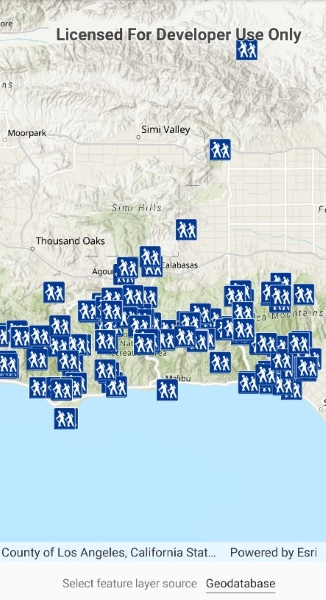
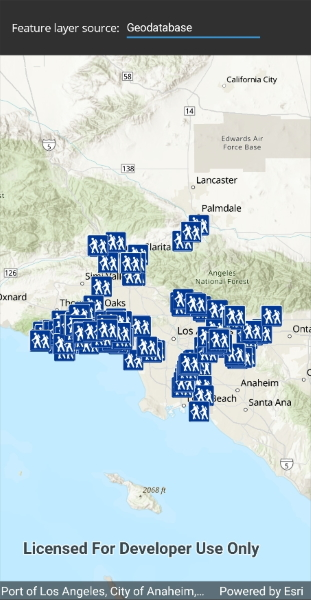
Updated LA trailheads data item (#1150)

diff --git a/src/UWP/ArcGISRuntime.UWP.Viewer/Samples/Data/FeatureLayerGeodatabase/FeatureLayerGeodatabase.xaml.cs b/src/UWP/ArcGISRuntime.UWP.Viewer/Samples/Data/FeatureLayerGeodatabase/FeatureLayerGeodatabase.xaml.cs
@@ -21,7 +21,7 @@ namespace ArcGISRuntime.UWP.Samples.FeatureLayerGeodatabase
         description: "Display features from a local geodatabase.",
         instructions: "",
         tags: new[] { "geodatabase", "mobile", "offline" })]
-    [ArcGISRuntime.Samples.Shared.Attributes.OfflineData("2b0f9e17105847809dfeb04e3cad69e0")]
+    [ArcGISRuntime.Samples.Shared.Attributes.OfflineData("cb1b20748a9f4d128dad8a87244e3e37")]
     public partial class FeatureLayerGeodatabase
     {
         public FeatureLayerGeodatabase()
@@ -38,7 +38,7 @@ namespace ArcGISRuntime.UWP.Samples.FeatureLayerGeodatabase
             MyMapView.Map = new Map(BasemapStyle.ArcGISStreets);
 
             // Get the path to the downloaded mobile geodatabase (.geodatabase file).
-            string mobileGeodatabaseFilePath = GetMobileGeodatabasePath();
+            string mobileGeodatabaseFilePath = DataManager.GetDataFolder("cb1b20748a9f4d128dad8a87244e3e37", "LA_Trails.geodatabase");
 
             try
             {
@@ -64,13 +64,6 @@ namespace ArcGISRuntime.UWP.Samples.FeatureLayerGeodatabase
             {
                 await new MessageDialog(e.ToString(), "Error").ShowAsync();
             }
-        }
-
-        private static string GetMobileGeodatabasePath()
-        {
-            // Use samples viewer's DataManager helper class to get the path of the downloaded dataset on disk.
-            // NOTE: The url for the actual data is: https://www.arcgis.com/home/item.html?id=2b0f9e17105847809dfeb04e3cad69e0.
-            return DataManager.GetDataFolder("2b0f9e17105847809dfeb04e3cad69e0", "LA_Trails.geodatabase");
         }
     }
 }

diff --git a/src/MAUI/Maui.Samples/Samples/Layers/DisplayFeatureLayers/DisplayFeatureLayers.xaml.cs b/src/MAUI/Maui.Samples/Samples/Layers/DisplayFeatureLayers/DisplayFeatureLayers.xaml.cs
@@ -22,7 +22,7 @@ namespace ArcGISRuntime.Samples.DisplayFeatureLayers
         description: "Display feature layers from various data sources.",
         instructions: "Tap the button on the toolbar to add feature layers, from different sources, to the map. Pan and zoom the map to view the feature layers.",
         tags: new[] { "feature", "geodatabase", "geopackage", "layers", "service", "shapefile", "table" })]
-    [ArcGISRuntime.Samples.Shared.Attributes.OfflineData("1759fd3e8a324358a0c58d9a687a8578", "2b0f9e17105847809dfeb04e3cad69e0", "68ec42517cdd439e81b036210483e8e7", "15a7cbd3af1e47cfa5d2c6b93dc44fc2")]
+    [ArcGISRuntime.Samples.Shared.Attributes.OfflineData("1759fd3e8a324358a0c58d9a687a8578", "cb1b20748a9f4d128dad8a87244e3e37", "68ec42517cdd439e81b036210483e8e7", "15a7cbd3af1e47cfa5d2c6b93dc44fc2")]
     public partial class DisplayFeatureLayers : ContentPage
     {
         public enum FeatureLayerSource
@@ -139,7 +139,7 @@ namespace ArcGISRuntime.Samples.DisplayFeatureLayers
         private async Task SetGeodatabaseFeatureLayerSource()
         {
             // Get the path to the downloaded mobile geodatabase (.geodatabase file).
-            string mobileGeodatabaseFilePath = DataManager.GetDataFolder("2b0f9e17105847809dfeb04e3cad69e0", "LA_Trails.geodatabase");
+            string mobileGeodatabaseFilePath = DataManager.GetDataFolder("cb1b20748a9f4d128dad8a87244e3e37", "LA_Trails.geodatabase");
 
             // Open the mobile geodatabase.
             Geodatabase mobileGeodatabase = await Geodatabase.OpenAsync(mobileGeodatabaseFilePath);

diff --git a/src/WinUI/ArcGISRuntime.WinUI.Viewer/Samples/Layers/DisplayFeatureLayers/DisplayFeatureLayers.xaml.cs b/src/WinUI/ArcGISRuntime.WinUI.Viewer/Samples/Layers/DisplayFeatureLayers/DisplayFeatureLayers.xaml.cs
@@ -26,7 +26,7 @@ namespace ArcGISRuntime.WinUI.Samples.DisplayFeatureLayers
         description: "Display feature layers from various data sources.",
         instructions: "Click the button on the toolbar to add feature layers, from different sources, to the map. Pan and zoom the map to view the feature layers.",
         tags: new[] { "feature", "geodatabase", "geopackage", "layers", "service", "shapefile", "table" })]
-    [ArcGISRuntime.Samples.Shared.Attributes.OfflineData("1759fd3e8a324358a0c58d9a687a8578", "2b0f9e17105847809dfeb04e3cad69e0", "68ec42517cdd439e81b036210483e8e7", "15a7cbd3af1e47cfa5d2c6b93dc44fc2")]
+    [ArcGISRuntime.Samples.Shared.Attributes.OfflineData("1759fd3e8a324358a0c58d9a687a8578", "cb1b20748a9f4d128dad8a87244e3e37", "68ec42517cdd439e81b036210483e8e7", "15a7cbd3af1e47cfa5d2c6b93dc44fc2")]
     public partial class DisplayFeatureLayers
     {
         public enum FeatureLayerSource
@@ -143,7 +143,7 @@ namespace ArcGISRuntime.WinUI.Samples.DisplayFeatureLayers
         private async Task SetGeodatabaseFeatureLayerSource()
         {
             // Get the path to the downloaded mobile geodatabase (.geodatabase file).
-            string mobileGeodatabaseFilePath = DataManager.GetDataFolder("2b0f9e17105847809dfeb04e3cad69e0", "LA_Trails.geodatabase");
+            string mobileGeodatabaseFilePath = DataManager.GetDataFolder("cb1b20748a9f4d128dad8a87244e3e37", "LA_Trails.geodatabase");
 
             // Open the mobile geodatabase.
             Geodatabase mobileGeodatabase = await Geodatabase.OpenAsync(mobileGeodatabaseFilePath);

diff --git a/src/WPF/ArcGISRuntime.WPF.Viewer/Samples/Layers/DisplayFeatureLayers/DisplayFeatureLayers.xaml.cs b/src/WPF/ArcGISRuntime.WPF.Viewer/Samples/Layers/DisplayFeatureLayers/DisplayFeatureLayers.xaml.cs
@@ -26,7 +26,7 @@ namespace ArcGISRuntime.WPF.Samples.DisplayFeatureLayers
         description: "Display feature layers from various data sources.",
         instructions: "Click the button on the toolbar to add feature layers, from different sources, to the map. Pan and zoom the map to view the feature layers.",
         tags: new[] { "feature", "geodatabase", "geopackage", "layers", "service", "shapefile", "table" })]
-    [ArcGISRuntime.Samples.Shared.Attributes.OfflineData("1759fd3e8a324358a0c58d9a687a8578", "2b0f9e17105847809dfeb04e3cad69e0", "68ec42517cdd439e81b036210483e8e7", "15a7cbd3af1e47cfa5d2c6b93dc44fc2")]
+    [ArcGISRuntime.Samples.Shared.Attributes.OfflineData("1759fd3e8a324358a0c58d9a687a8578", "cb1b20748a9f4d128dad8a87244e3e37", "68ec42517cdd439e81b036210483e8e7", "15a7cbd3af1e47cfa5d2c6b93dc44fc2")]
     public partial class DisplayFeatureLayers
     {
         public enum FeatureLayerSource
@@ -143,7 +143,7 @@ namespace ArcGISRuntime.WPF.Samples.DisplayFeatureLayers
         private async Task SetGeodatabaseFeatureLayerSource()
         {
             // Get the path to the downloaded mobile geodatabase (.geodatabase file).
-            string mobileGeodatabaseFilePath = DataManager.GetDataFolder("2b0f9e17105847809dfeb04e3cad69e0", "LA_Trails.geodatabase");
+            string mobileGeodatabaseFilePath = DataManager.GetDataFolder("cb1b20748a9f4d128dad8a87244e3e37", "LA_Trails.geodatabase");
 
             // Open the mobile geodatabase.
             Geodatabase mobileGeodatabase = await Geodatabase.OpenAsync(mobileGeodatabaseFilePath);

diff --git a/src/MAUI/Maui.Samples/Samples/Layers/DisplayFeatureLayers/readme.md b/src/MAUI/Maui.Samples/Samples/Layers/DisplayFeatureLayers/readme.md
@@ -47,7 +47,7 @@ Tap the button on the toolbar to add feature layers, from different sources, to 
 
 ## About the data
 
-This sample uses the [Naperville damage assessment service](https://sampleserver7.arcgisonline.com/server/rest/services/DamageAssessment/FeatureServer/0), [Trees of Portland portal item](https://www.arcgis.com/home/item.html?id=1759fd3e8a324358a0c58d9a687a8578), [Los Angeles Trailheads geodatabase](https://www.arcgis.com/home/item.html?id=2b0f9e17105847809dfeb04e3cad69e0), [Aurora, Colorado GeoPackage](https://www.arcgis.com/home/item.html?id=68ec42517cdd439e81b036210483e8e7), and [Scottish Wildlife Trust Reserves Shapefile](https://www.arcgis.com/home/item.html?id=15a7cbd3af1e47cfa5d2c6b93dc44fc2). 
+This sample uses the [Naperville damage assessment service](https://sampleserver7.arcgisonline.com/server/rest/services/DamageAssessment/FeatureServer/0), [Trees of Portland portal item](https://www.arcgis.com/home/item.html?id=1759fd3e8a324358a0c58d9a687a8578), [Los Angeles Trailheads geodatabase](https://www.arcgis.com/home/item.html?id=cb1b20748a9f4d128dad8a87244e3e37), [Aurora, Colorado GeoPackage](https://www.arcgis.com/home/item.html?id=68ec42517cdd439e81b036210483e8e7), and [Scottish Wildlife Trust Reserves Shapefile](https://www.arcgis.com/home/item.html?id=15a7cbd3af1e47cfa5d2c6b93dc44fc2).
 
 The Scottish Wildlife Trust shapefile data is provided from Scottish Wildlife Trust under [CC-BY licence](https://creativecommons.org/licenses/by/4.0/). Data Copyright Scottish Wildlife Trust (2022).
 

diff --git a/src/WPF/ArcGISRuntime.WPF.Viewer/Samples/Layers/DisplayFeatureLayers/readme.md b/src/WPF/ArcGISRuntime.WPF.Viewer/Samples/Layers/DisplayFeatureLayers/readme.md
@@ -47,7 +47,7 @@ Click the button on the toolbar to add feature layers, from different sources, t
 
 ## About the data
 
-This sample uses the [Naperville damage assessment service](https://sampleserver7.arcgisonline.com/server/rest/services/DamageAssessment/FeatureServer/0), [Trees of Portland portal item](https://www.arcgis.com/home/item.html?id=1759fd3e8a324358a0c58d9a687a8578), [Los Angeles Trailheads geodatabase](https://www.arcgis.com/home/item.html?id=2b0f9e17105847809dfeb04e3cad69e0), [Aurora, Colorado GeoPackage](https://www.arcgis.com/home/item.html?id=68ec42517cdd439e81b036210483e8e7), and [Scottish Wildlife Trust Reserves Shapefile](https://www.arcgis.com/home/item.html?id=15a7cbd3af1e47cfa5d2c6b93dc44fc2). 
+This sample uses the [Naperville damage assessment service](https://sampleserver7.arcgisonline.com/server/rest/services/DamageAssessment/FeatureServer/0), [Trees of Portland portal item](https://www.arcgis.com/home/item.html?id=1759fd3e8a324358a0c58d9a687a8578), [Los Angeles Trailheads geodatabase](https://www.arcgis.com/home/item.html?id=cb1b20748a9f4d128dad8a87244e3e37), [Aurora, Colorado GeoPackage](https://www.arcgis.com/home/item.html?id=68ec42517cdd439e81b036210483e8e7), and [Scottish Wildlife Trust Reserves Shapefile](https://www.arcgis.com/home/item.html?id=15a7cbd3af1e47cfa5d2c6b93dc44fc2).
 
 The Scottish Wildlife Trust shapefile data is provided from Scottish Wildlife Trust under [CC-BY licence](https://creativecommons.org/licenses/by/4.0/). Data Copyright Scottish Wildlife Trust (2022).
 

diff --git a/src/WinUI/ArcGISRuntime.WinUI.Viewer/Samples/Layers/DisplayFeatureLayers/readme.md b/src/WinUI/ArcGISRuntime.WinUI.Viewer/Samples/Layers/DisplayFeatureLayers/readme.md
@@ -47,7 +47,7 @@ Click the button on the toolbar to add feature layers, from different sources, t
 
 ## About the data
 
-This sample uses the [Naperville damage assessment service](https://sampleserver7.arcgisonline.com/server/rest/services/DamageAssessment/FeatureServer/0), [Trees of Portland portal item](https://www.arcgis.com/home/item.html?id=1759fd3e8a324358a0c58d9a687a8578), [Los Angeles Trailheads geodatabase](https://www.arcgis.com/home/item.html?id=2b0f9e17105847809dfeb04e3cad69e0), [Aurora, Colorado GeoPackage](https://www.arcgis.com/home/item.html?id=68ec42517cdd439e81b036210483e8e7), and [Scottish Wildlife Trust Reserves Shapefile](https://www.arcgis.com/home/item.html?id=15a7cbd3af1e47cfa5d2c6b93dc44fc2). 
+This sample uses the [Naperville damage assessment service](https://sampleserver7.arcgisonline.com/server/rest/services/DamageAssessment/FeatureServer/0), [Trees of Portland portal item](https://www.arcgis.com/home/item.html?id=1759fd3e8a324358a0c58d9a687a8578), [Los Angeles Trailheads geodatabase](https://www.arcgis.com/home/item.html?id=cb1b20748a9f4d128dad8a87244e3e37), [Aurora, Colorado GeoPackage](https://www.arcgis.com/home/item.html?id=68ec42517cdd439e81b036210483e8e7), and [Scottish Wildlife Trust Reserves Shapefile](https://www.arcgis.com/home/item.html?id=15a7cbd3af1e47cfa5d2c6b93dc44fc2).
 
 The Scottish Wildlife Trust shapefile data is provided from Scottish Wildlife Trust under [CC-BY licence](https://creativecommons.org/licenses/by/4.0/). Data Copyright Scottish Wildlife Trust (2022).
 

diff --git a/src/UWP/ArcGISRuntime.UWP.Viewer/Samples/Data/FeatureLayerGeodatabase/readme.md b/src/UWP/ArcGISRuntime.UWP.Viewer/Samples/Data/FeatureLayerGeodatabase/readme.md
@@ -25,7 +25,7 @@ Accessing data from a local geodatabase is useful when working in an environment
 ## Offline data
 
 * [Los Angeles Vector Tile Package](https://www.arcgis.com/home/item.html?id=d9f8ce6f6ac84b90a665a861d71a5d0a) - Streets Vector Tile Package (vtpk) for the City of Los Angeles.
-* [Los Angeles Trailheads](https://www.arcgis.com/home/item.html?id=2b0f9e17105847809dfeb04e3cad69e0) - Mobile geodatabase containing LA trailhead locations
+* [Los Angeles Trailheads](https://www.arcgis.com/home/item.html?id=cb1b20748a9f4d128dad8a87244e3e37) - Mobile geodatabase containing LA trailhead locations
 
 ## Additional information
 
